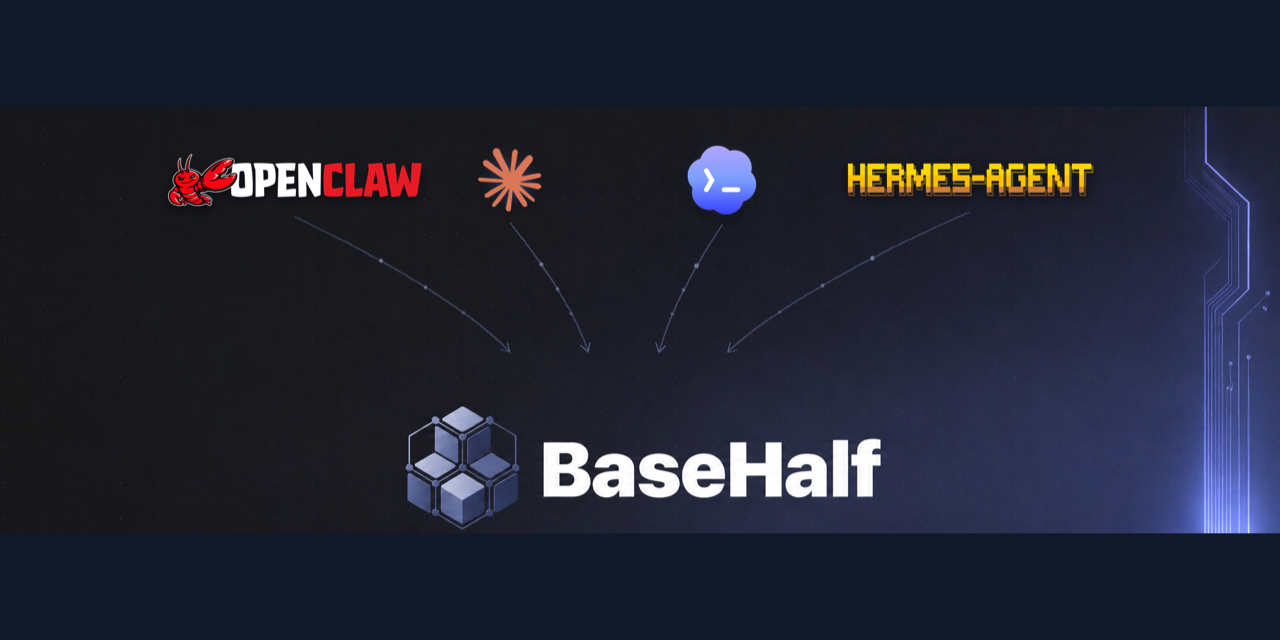
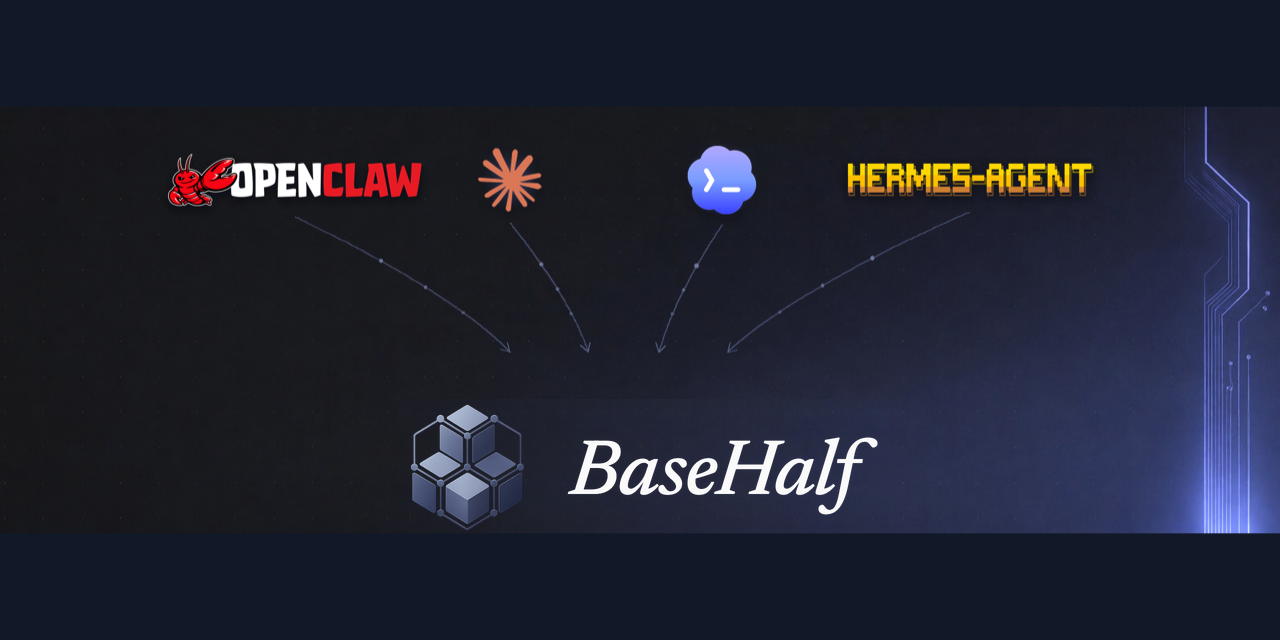
docs(brand): the name BaseHalf is set in Newsreader italic, in the README's wordmark and the social image (D132)
The owner made the face of the launch film's story lines the brand's face for the name.
The README's two wordmark pictures are drawn again as the film draws the lockup: the
logo's shape 1.6 em tall, half an em before the name, the name's capitals centred on the
logo. In the social image the old lockup is cleared to the ground around it and the new
one stands where it stood. GitHub shows that image from the repository's settings, so it
changes there only when it is uploaded again.

Changed region(s): [[0.3125, 0.625, 0.6875, 0.8438]]

diff --git a/docs/decisions.md b/docs/decisions.md
@@ -6419,3 +6419,25 @@ card that follows a card of the canvas does belong to one.
   of the lowest row.
 - A place is still chosen once (D46): a file whose list is written after its card appeared stays at the end of the canvas.
 - Not verified in a window: a draft that an agent makes with inputs, which is placed by the same reading of its list.
+
+## D132 — The name BaseHalf is set in Newsreader italic (NEW, 2026-11-13)
+
+**Decision.** Wherever the name BaseHalf stands as the mark, beside the logo or as the subject of a heading, it is set in
+Newsreader italic, weight 500, letter-spacing -0.015em. Beside the logo the two form one lockup: the logo's shape 1.6 em
+tall, half an em before the name, the name's capitals centred on the logo. The words around the name keep their own face.
+In this repository that is the README's wordmark (`docs/assets/readme/wordmark-{light,dark}.png`), the social image
+(`docs/assets/basehalf-social-preview.png`) and the installer's background
+(`vscode-base/build/basehalf/assets/dmg-background{,@2x}.png`, where "Install" stays as it was and the name stands on its
+baseline, its capitals 1.12 times as tall). The product's own window shows the logo and no name, and does not change.
+
+**Why.** On 2026-11-13 the owner saw the launch film, whose story lines are set in Newsreader italic, and asked that its face
+become the brand's face and that the name be set in it everywhere the brand appears: the README, the website and the GitHub
+pages. The face is open (SIL Open Font License 1.1), and the website already used its italic for the human half of the slogan.
+
+**Consequences.**
+- The README shows the new picture at the same width (861 by 246 where it was 854 by 245), so it stands as large as before.
+- GitHub shows the social image from the repository's settings, not from the file: the file is its source, and the picture
+  there changes only when it is uploaded again.
+- The pictures were drawn with a headless browser from the face's published files and laid into the old pictures, which have
+  no other source: the name was cleared to the ground around it and the rest of each picture kept as it was.
+- The website and the profile banner, in other repositories, follow the same rule.
